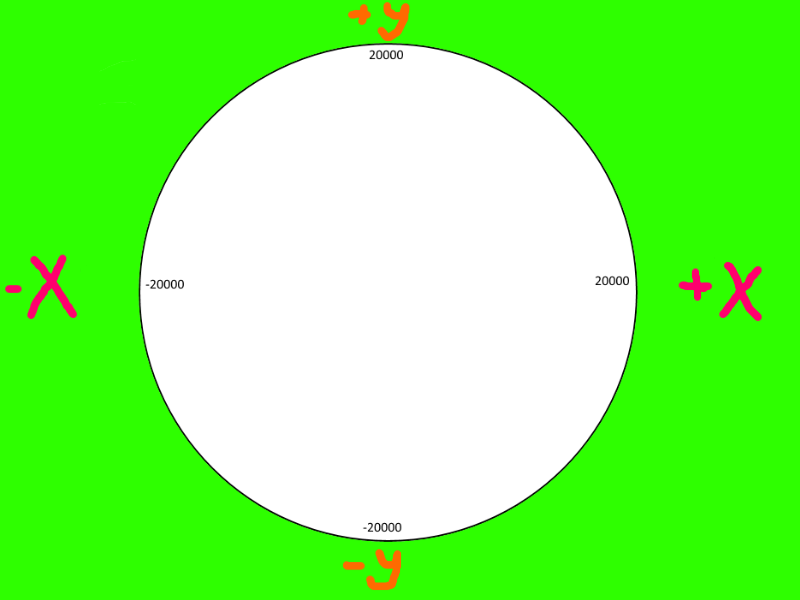
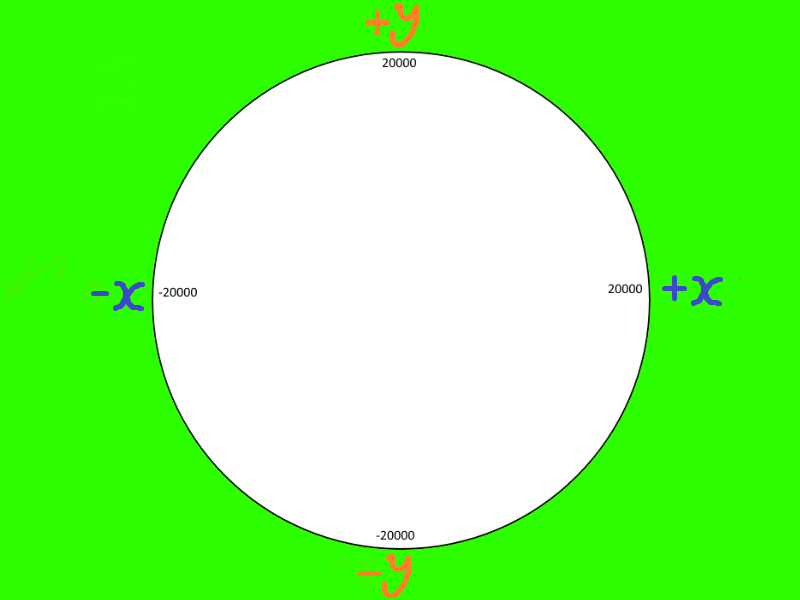
Allowed mapview of full field of play

diff --git a/BlackholeBattle/BlackholeBattle/BlackholeBattle/BlackholeBattle.cs b/BlackholeBattle/BlackholeBattle/BlackholeBattle/BlackholeBattle.cs
@@ -26,12 +26,12 @@ namespace BlackholeBattle
     public class BlackholeBattle : GameScreen
     {
         //TESTING HERE
+        ViewState cameraState = ViewState.Camera;
         float pauseAlpha;
         InputAction pauseAction;
         ContentManager content;
         SpriteFont gameFont;
         //END TESTING
-
         Random randall = new Random();
         const int PORT = 1521;
         const int PORT2 = 1522;
@@ -54,7 +54,10 @@ namespace BlackholeBattle
         private long? FrameNumber = null;
 
         Texture2D arrowTemp;
-        //SpriteBatch spriteBatch;
+        Texture2D baseTemp;
+        Texture2D XYPlane;
+        Texture2D ZXPlane;
+        SpriteBatch spriteBatch;
         SpriteFont font;
         GraphicsDeviceManager graphics;
 
@@ -115,11 +118,9 @@ namespace BlackholeBattle
                 thumbnails.Add("blackhole", content.Load<Texture2D>("blackhole"));
                 font = content.Load<SpriteFont>("SpriteFont1");
                 arrowTemp = content.Load<Texture2D>("arrow");
-                // A real game would probably have more content than this sample, so
-                // it would take longer to load. We simulate that by delaying for a
-                // while, giving you a chance to admire the beautiful loading screen.
-                //Thread.Sleep(1000);
-
+                XYPlane = content.Load<Texture2D>("XYPlane");
+                ZXPlane = content.Load<Texture2D>("ZXPlane");
+                baseTemp = content.Load<Texture2D>("BaseTemp");
                 // once the load has finished, we use ResetElapsedTime to tell the game's
                 // timing mechanism that we have just finished a very long frame, and that
                 // it should not try to catch up.
@@ -140,6 +141,7 @@ namespace BlackholeBattle
                 hudTexture.SetData<Color>(c);
                 //initial camera position
                 selectedUnits.Add(gravityObjects[0]);
+                spriteBatch = ScreenManager.SpriteBatch;
             }
         }
         public override void Deactivate()
@@ -471,54 +473,103 @@ namespace BlackholeBattle
         public override void Draw(GameTime gameTime)
         {
             ScreenManager.GraphicsDevice.Clear(Color.Black);
-            SpriteBatch spriteBatch = ScreenManager.SpriteBatch;
             ScreenManager.GraphicsDevice.DepthStencilState = DepthStencilState.Default;
             spriteBatch.Begin();
-
-            foreach (IUnit unit in units)
+            if (cameraState == ViewState.Camera)
             {
-                if (unit is Blackhole)
+                foreach (IUnit unit in units)
                 {
-                    BoundingFrustum frustum = new BoundingFrustum(view * projection);
-                    if (frustum.Contains(unit.Position()) == ContainmentType.Contains)
+                    if (unit is Blackhole)
                     {
-                        Vector3 blackHoleScreenPos = unit.Position();
-                        blackHoleScreenPos = ScreenManager.GraphicsDevice.Viewport.Project(blackHoleScreenPos, projection, view, Matrix.CreateTranslation(0, 0, 0));
-                        //blackHoleScreenPos = GraphicsDevice.Viewport.Unproject(blackHoleScreenPos, projection, view, Matrix.CreateTranslation(0, 0, 0));
-                        Vector2 posOnScreen;
+                        BoundingFrustum frustum = new BoundingFrustum(view * projection);
+                        if (frustum.Contains(unit.Position()) == ContainmentType.Contains)
                         {
-                            posOnScreen.X = blackHoleScreenPos.X;
-                            posOnScreen.Y = blackHoleScreenPos.Y;
-                         }
-                        spriteBatch.Draw(arrowTemp, new Rectangle((int)posOnScreen.X, (int)posOnScreen.Y, 50, 50), Color.White);
-                         //draw distance from base to blackhole
-                        //spriteBatch.DrawString(
-                        spriteBatch.DrawString(font, unit.Mass().ToString(), new Vector2(posOnScreen.X + 10, posOnScreen.Y - 30), Color.Red);
-                        spriteBatch.DrawString(font, (unit.Position() - cameraPosition).Length().ToString(), new Vector2(posOnScreen.X + 10, posOnScreen.Y - 50), Color.Blue);
+                            Vector3 blackHoleScreenPos = unit.Position();
+                            blackHoleScreenPos = ScreenManager.GraphicsDevice.Viewport.Project(blackHoleScreenPos, projection, view, Matrix.CreateTranslation(0, 0, 0));
+                            //blackHoleScreenPos = GraphicsDevice.Viewport.Unproject(blackHoleScreenPos, projection, view, Matrix.CreateTranslation(0, 0, 0));
+                            Vector2 posOnScreen;
+                            {
+                                posOnScreen.X = blackHoleScreenPos.X;
+                                posOnScreen.Y = blackHoleScreenPos.Y;
+                            }
+                            spriteBatch.Draw(arrowTemp, new Rectangle((int)posOnScreen.X, (int)posOnScreen.Y, 50, 50), Color.White);
+                            //draw distance from base to blackhole
+                            //spriteBatch.DrawString(
+                            spriteBatch.DrawString(font, unit.Mass().ToString(), new Vector2(posOnScreen.X + 10, posOnScreen.Y - 30), Color.Red);
+                            spriteBatch.DrawString(font, (unit.Position() - cameraPosition).Length().ToString(), new Vector2(posOnScreen.X + 10, posOnScreen.Y - 50), Color.Blue);
+                        }
+                    }
+                }
+
+                foreach (IUnit unit in units)
+                {
+                    if (!(unit is Blackhole))
+                    {
+                        DrawModel(models[unit.ModelName()], unit.Size(), unit.Rotation(), unit.Position());
+                    }
+                }
+                spriteBatch.Draw(hudTexture, hudRectangle, Color.Red);
+                if (curPlayer.name != null)
+                {
+                    spriteBatch.DrawString(font, curPlayer.name, new Vector2(hudRectangle.X + 5, hudRectangle.Y + 5), Color.Black);
+                }
+                if (IsServer != null && ServerIP == null)
+                {
+                    spriteBatch.DrawString(font, "Waiting on IP...", new Vector2(hudRectangle.X + 5, hudRectangle.Y + 25), Color.Black);
+                }
+                if (ServerIP != null)
+                {
+                    spriteBatch.DrawString(font, "Server IP is: " + ServerIP, new Vector2(hudRectangle.X + 5, hudRectangle.Y + 25), Color.Black);
+                }
+            }
+            if(cameraState == ViewState.XY)
+            {
+                spriteBatch.Draw(XYPlane, new Rectangle(0, 0, graphics.PreferredBackBufferWidth, graphics.PreferredBackBufferHeight),Color.Black);
+                int startingX = (int)0.19375 * graphics.PreferredBackBufferWidth;
+                int startingY = (int)0.09166 * graphics.PreferredBackBufferHeight;
+
+                foreach (IUnit unit in units)
+                {
+                    var pos = unit.Position() * 0.0245f;
+                    Vector2 onScreen = new Vector2(pos.X + startingX, pos.Y + startingY);
+                    if (unit is Spheroid)
+                    {
+                        spriteBatch.Draw(thumbnails[unit.ModelName()], new Rectangle((int)onScreen.X, (int)onScreen.Y, 10, 10), Color.Black);
+                    }
+                    if (unit is Base)
+                    {
+                        spriteBatch.Draw(baseTemp, new Rectangle((int)onScreen.X, (int)onScreen.Y, 10, 10), Color.Black);
+                    }
+                    if (unit is Blackhole)
+                    {
+                        spriteBatch.Draw(thumbnails["blackhole"], new Rectangle((int)onScreen.X, (int)onScreen.Y, 10, 10), Color.Black);
                     }
                 }
             }
-            foreach (IUnit unit in units)
+            if (cameraState == ViewState.ZX)
             {
-                if (!(unit is Blackhole))
+                spriteBatch.Draw(ZXPlane, new Rectangle(0, 0, graphics.PreferredBackBufferWidth, graphics.PreferredBackBufferHeight), Color.Black);
+                int startingX = (int)0.19375 * graphics.PreferredBackBufferWidth;
+                int startingY = (int)0.09166 * graphics.PreferredBackBufferHeight;
+                
+                foreach(IUnit unit in units)
                 {
-                    DrawModel(models[unit.ModelName()], unit.Size(), unit.Rotation(), unit.Position());
+                    var pos = unit.Position() * 0.0245f;
+                    Vector2 onScreen = new Vector2(pos.X + startingX, pos.Z + startingY);
+                    if(unit is Spheroid)
+                    {
+                        spriteBatch.Draw(thumbnails[unit.ModelName()], new Rectangle((int)onScreen.X, (int)onScreen.Y, 10, 10), Color.Black);
+                    }
+                    if(unit is Base)
+                    {
+                        spriteBatch.Draw(baseTemp, new Rectangle((int)onScreen.X, (int)onScreen.Y, 10, 10), Color.Black);
+                    }
+                    if(unit is Blackhole)
+                    {
+                        spriteBatch.Draw(thumbnails["blackhole"], new Rectangle((int)onScreen.X, (int)onScreen.Y, 10, 10), Color.Black);
+                    }
                 }
             }
-            spriteBatch.Draw(hudTexture, hudRectangle, Color.Red);
-            if (curPlayer.name != null)
-            {
-            spriteBatch.DrawString(font, curPlayer.name, new Vector2(hudRectangle.X + 5, hudRectangle.Y + 5), Color.Black);
-            }
-            if (IsServer != null && ServerIP == null)
-            {
-                spriteBatch.DrawString(font, "Waiting on IP...", new Vector2(hudRectangle.X + 5, hudRectangle.Y + 25), Color.Black);
-            }
-            if (ServerIP != null)
-            {
-                spriteBatch.DrawString(font, "Server IP is: " + ServerIP, new Vector2(hudRectangle.X + 5, hudRectangle.Y + 25), Color.Black);
-            }
-
             spriteBatch.End();
 
             // If the game is transitioning on or off, fade it out to black.
@@ -574,6 +625,20 @@ namespace BlackholeBattle
             KeyboardState state = Keyboard.GetState();
             MouseState mouse = Mouse.GetState();
             bool selectMultipleUnits = false;
+            if(state.IsKeyDown(Keys.N))
+            {
+                if (cameraState != ViewState.XY)
+                    cameraState = ViewState.XY;
+                else
+                    cameraState = ViewState.Camera;
+            }
+            if (state.IsKeyDown(Keys.M))
+            {
+                if (cameraState != ViewState.ZX)
+                    cameraState = ViewState.ZX;
+                else
+                    cameraState = ViewState.Camera;
+            }
             if (state.IsKeyDown(Keys.Escape))
             {
                 ScreenManager.AddScreen(new PauseMenuScreen(), ControllingPlayer);
@@ -822,4 +887,10 @@ namespace BlackholeBattle
             units.Add(b);
         }
     }
+    public enum ViewState
+    {
+        Camera,
+        XY,
+        ZX
+    };
 }
